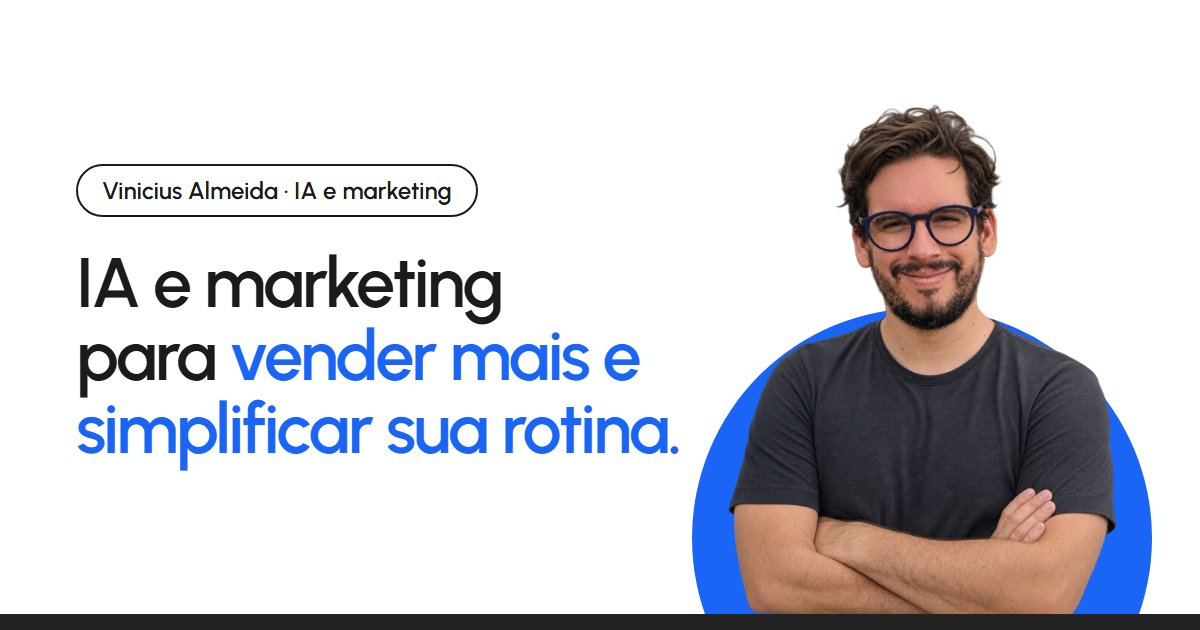
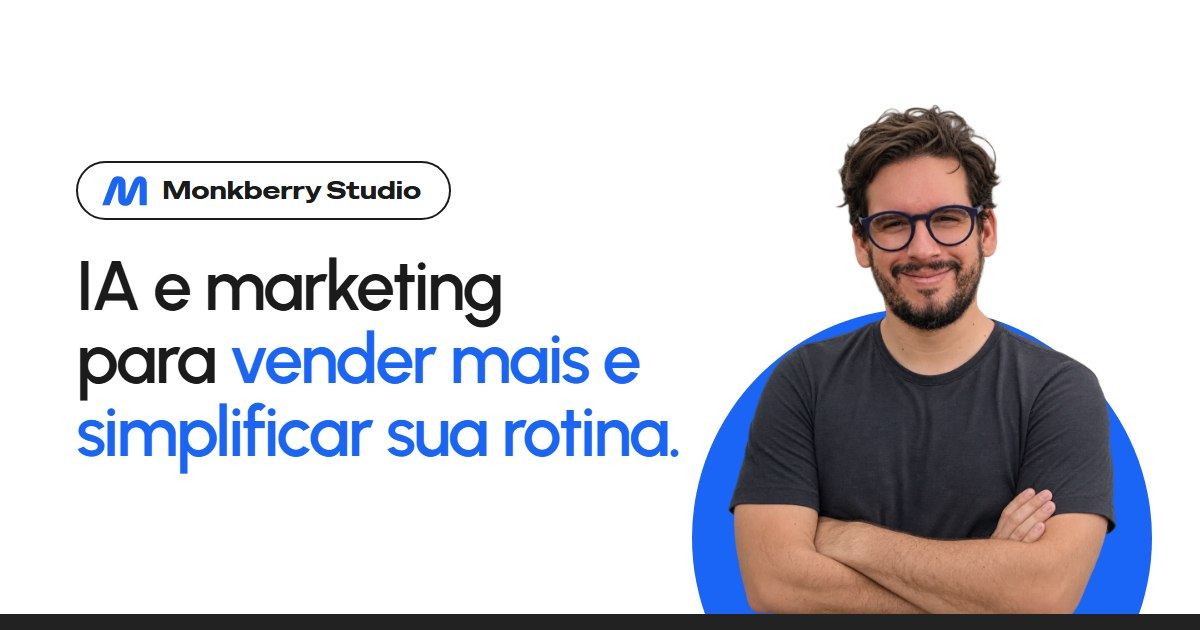
Rebatiza o site como Monkberry Studio, volta a faixa de Black Friday ao topo e troca o WhatsApp
- Logotipo "Monkberry Studio" (fonte Special Gothic Expanded One) com o novo M azul
- Icone da aba, icone do celular e imagem de compartilhamento refeitos
- Titulo, previa de compartilhamento, descricoes e rodape atualizados
- Faixa amarela de Black Friday no topo (ate 30/11) com botao para o pacote Presenca Digital
- Novo numero de WhatsApp

Changed region(s): [[0.0617, 0.5429, 0.5858, 0.7238], [0.0617, 0.2413, 0.4008, 0.3619], [0.0617, 0.4222, 0.4317, 0.5127]]

diff --git a/site/index.html b/site/index.html
@@ -3,16 +3,16 @@
 <head>
   <meta charset="utf-8">
   <meta name="viewport" content="width=device-width, initial-scale=1">
-  <title>Vinicius Almeida · IA e marketing para pequenos negócios</title>
-  <meta name="description" content="IA e marketing para pequenos negócios: sites, campanhas, automações e ferramentas sob medida para vender mais e simplificar a rotina. Avaliação gratuita.">
+  <title>Monkberry Studio | IA, Design e Marketing</title>
+  <meta name="description" content="IA, design e marketing para pequenos negócios: sites, campanhas, automações e ferramentas sob medida para vender mais e facilitar a rotina. Avaliação gratuita.">
   <meta name="theme-color" content="#ffffff">
 
   <!-- Compartilhamento (WhatsApp, Facebook, LinkedIn, X) -->
   <meta property="og:type" content="website">
   <meta property="og:locale" content="pt_BR">
-  <meta property="og:site_name" content="Vinicius Almeida · IA e marketing">
-  <meta property="og:title" content="Vinicius Almeida · IA e marketing para pequenos negócios">
-  <meta property="og:description" content="Sites, campanhas, automações e ferramentas sob medida para atrair clientes e facilitar o dia a dia do seu negócio.">
+  <meta property="og:site_name" content="Monkberry Studio">
+  <meta property="og:title" content="Monkberry Studio | IA, Design e Marketing">
+  <meta property="og:description" content="IA, design e marketing sob medida: sites, campanhas, automações e ferramentas para atrair clientes e facilitar o dia a dia do seu negócio.">
   <!-- Endereço do site. Com domínio próprio, troque "https://darling-griffin-170881.netlify.app"
        pelo domínio nestas três linhas (canonical, og:url e og:image). -->
   <link rel="canonical" href="https://darling-griffin-170881.netlify.app/">
@@ -20,7 +20,7 @@
   <meta property="og:image" content="https://darling-griffin-170881.netlify.app/assets/img/og-image.jpg">
   <meta property="og:image:width" content="1200">
   <meta property="og:image:height" content="630">
-  <meta property="og:image:alt" content="Vinicius Almeida · IA e marketing para vender mais e simplificar sua rotina.">
+  <meta property="og:image:alt" content="Monkberry Studio · IA e marketing para vender mais e simplificar sua rotina.">
   <meta name="twitter:card" content="summary_large_image">
 
   <link rel="icon" href="favicon.svg" type="image/svg+xml">
@@ -28,7 +28,7 @@
 
   <link rel="preconnect" href="https://fonts.googleapis.com">
   <link rel="preconnect" href="https://fonts.gstatic.com" crossorigin>
-  <link rel="stylesheet" href="https://fonts.googleapis.com/css2?family=Urbanist:wght@400..800&display=swap">
+  <link rel="stylesheet" href="https://fonts.googleapis.com/css2?family=Urbanist:wght@400..800&family=Special+Gothic+Expanded+One&display=swap">
   <link rel="stylesheet" href="assets/css/styles.css">
 
   <script>document.documentElement.classList.replace('no-js', 'js');</script>
@@ -66,8 +66,8 @@
   <header class="site-header">
     <div class="site-header__bar">
       <a class="brand" href="#inicio">
-        <span class="brand__mark" aria-hidden="true">V</span>
-        <span class="brand__name">Vinicius Almeida</span>
+        <img class="brand__mark" src="assets/img/logo-m.svg" alt="" width="208" height="140">
+        <span class="brand__name">Monkberry Studio</span>
       </a>
 
       <nav class="site-nav" id="site-nav" aria-label="Principal">
@@ -134,7 +134,7 @@
         </div>
 
         <div class="packages__grid">
-          <article class="package" aria-labelledby="pacote-presenca">
+          <article class="package" id="presenca" aria-labelledby="pacote-presenca">
             <div class="package__top">
               <span class="package__icon" aria-hidden="true"><svg class="icon"><use href="#i-browser"/></svg></span>
               <span class="package__index" aria-hidden="true">01</span>
@@ -501,8 +501,8 @@
   <footer class="site-footer">
     <div class="container site-footer__layout">
       <a class="brand" href="#inicio">
-        <span class="brand__mark" aria-hidden="true">V</span>
-        <span class="brand__name">Vinicius Almeida</span>
+        <img class="brand__mark" src="assets/img/logo-m.svg" alt="" width="208" height="140">
+        <span class="brand__name">Monkberry Studio</span>
       </a>
       <nav class="site-footer__nav" aria-label="Rodapé">
         <ul>
@@ -513,7 +513,7 @@
           <li><a href="#duvidas">Dúvidas</a></li>
         </ul>
       </nav>
-      <p class="site-footer__copy">© <span data-year>2026</span> Vinicius Almeida · IA e marketing</p>
+      <p class="site-footer__copy">© <span data-year>2026</span> Monkberry Studio | IA, Design e Marketing</p>
     </div>
   </footer>
 

diff --git a/site/assets/css/styles.css b/site/assets/css/styles.css
@@ -175,12 +175,12 @@ strong { font-weight: 700; }
 
 /* ---------- Aviso no topo (desativado por padrão; veja config.js → avisoTopo) ---------- */
 .announcement {
-  --focus: #fff;
+  --focus: var(--ink);
   margin: 12px var(--inset) 0;
   padding: 10px 20px;
   border-radius: 18px;
-  background: var(--accent-strong);
-  color: #fff;
+  background: var(--yellow);
+  color: var(--ink);
   font-size: .9375rem;
   font-weight: 600;
   line-height: 1.45;
@@ -202,12 +202,16 @@ strong { font-weight: 700; }
   .announcement .icon { display: none; }
 }
 .announcement__link {
+  padding: 6px 16px;
+  border-radius: 999px;
+  background: var(--ink);
   color: #fff;
   font-weight: 700;
-  text-decoration: underline;
-  text-underline-offset: 3px;
+  text-decoration: none;
+  white-space: nowrap;
+  transition: background-color .2s ease;
 }
-.announcement__link:hover { text-decoration-thickness: 2px; }
+.announcement__link:hover { background: #000; }
 
 /* ---------- Cabeçalho ---------- */
 .site-header {
@@ -238,24 +242,19 @@ strong { font-weight: 700; }
   align-items: center;
   gap: 10px;
   border-radius: 999px;
-  font-size: 1.0625rem;
-  font-weight: 700;
-  letter-spacing: -0.01em;
+  font-family: "Special Gothic Expanded One", var(--font);
+  font-size: 1rem;
+  font-weight: 400;
+  letter-spacing: 0;
   text-decoration: none;
   white-space: nowrap;
 }
 
 .brand__mark {
-  display: grid;
-  place-items: center;
-  width: 40px;
-  height: 40px;
-  border-radius: 50%;
-  background: var(--accent);
-  color: #fff;
-  font-size: 1.125rem;
-  font-weight: 800;
-  line-height: 1;
+  display: block;
+  width: auto;
+  height: 26px;
+  flex: none;
 }
 
 .site-nav { margin-inline: auto; }

diff --git a/site/assets/js/config.js b/site/assets/js/config.js
@@ -14,7 +14,7 @@ window.SITE_CONFIG = {
    * Se o número ficar vazio ou inválido, nenhum link de WhatsApp é gerado:
    * os botões apenas avisam que o contato está em configuração.
    */
-  whatsapp: "(82) 99957-8345",
+  whatsapp: "(82) 99831-6257",
 
   /* Mensagens que já aparecem escritas quando a conversa abre no WhatsApp. */
   mensagensWhatsApp: {
@@ -34,11 +34,11 @@ window.SITE_CONFIG = {
    *   ate:       último dia do aviso, no formato AAAA-MM-DD (opcional). Depois dele, o aviso some sozinho.
    */
   avisoTopo: {
-    ativo: false,
-    texto: "",
-    textoLink: "",
-    link: "",
-    ate: "",
+    ativo: true,
+    texto: "Black Friday: seu negócio com presença digital em oferta até 30/11.",
+    textoLink: "Ver oferta",
+    link: "#presenca",
+    ate: "2026-11-30",
   },
 
   /*
